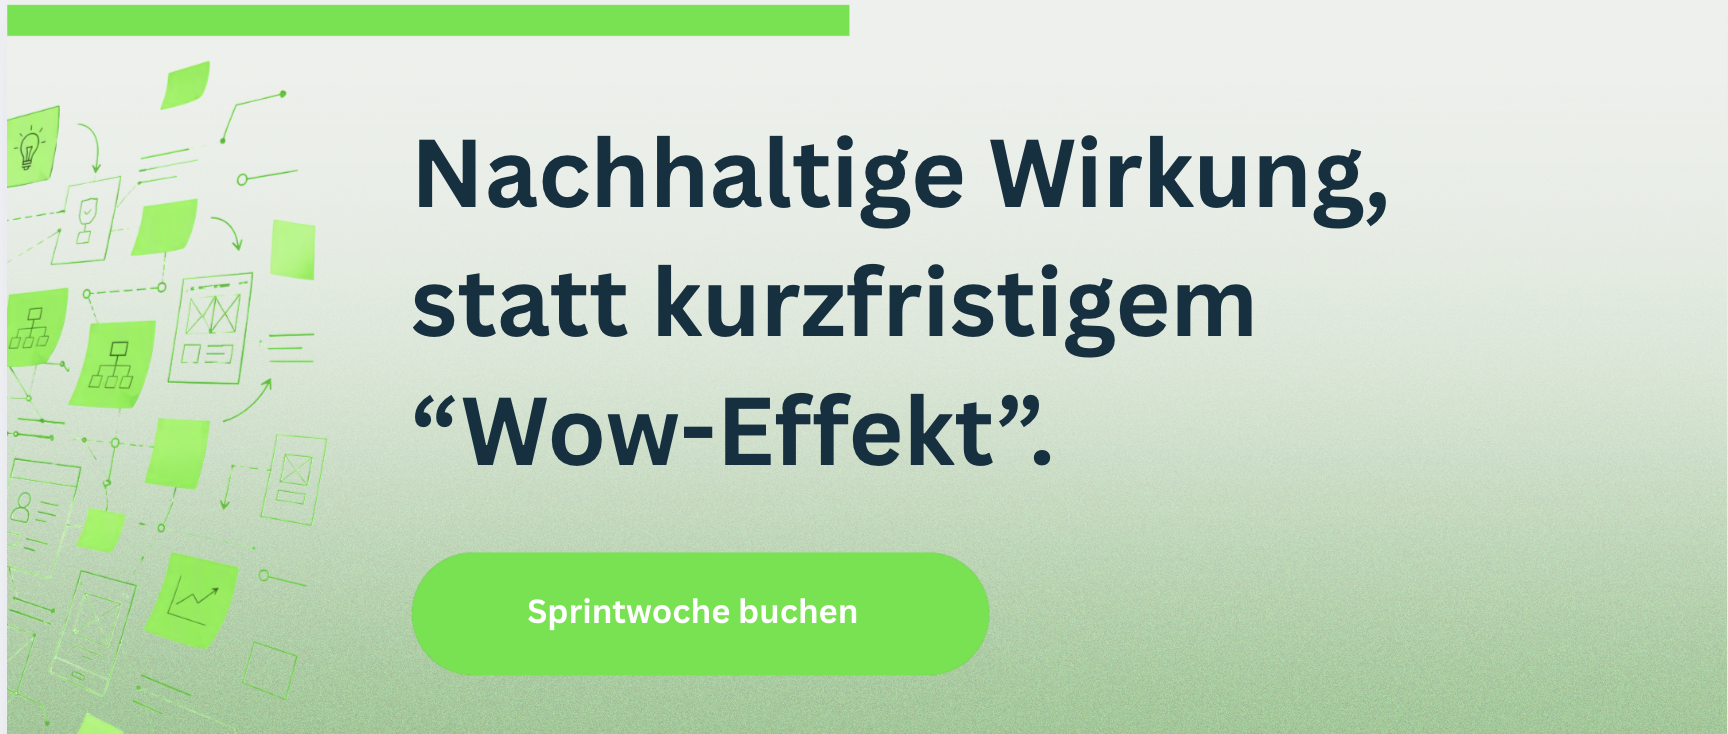
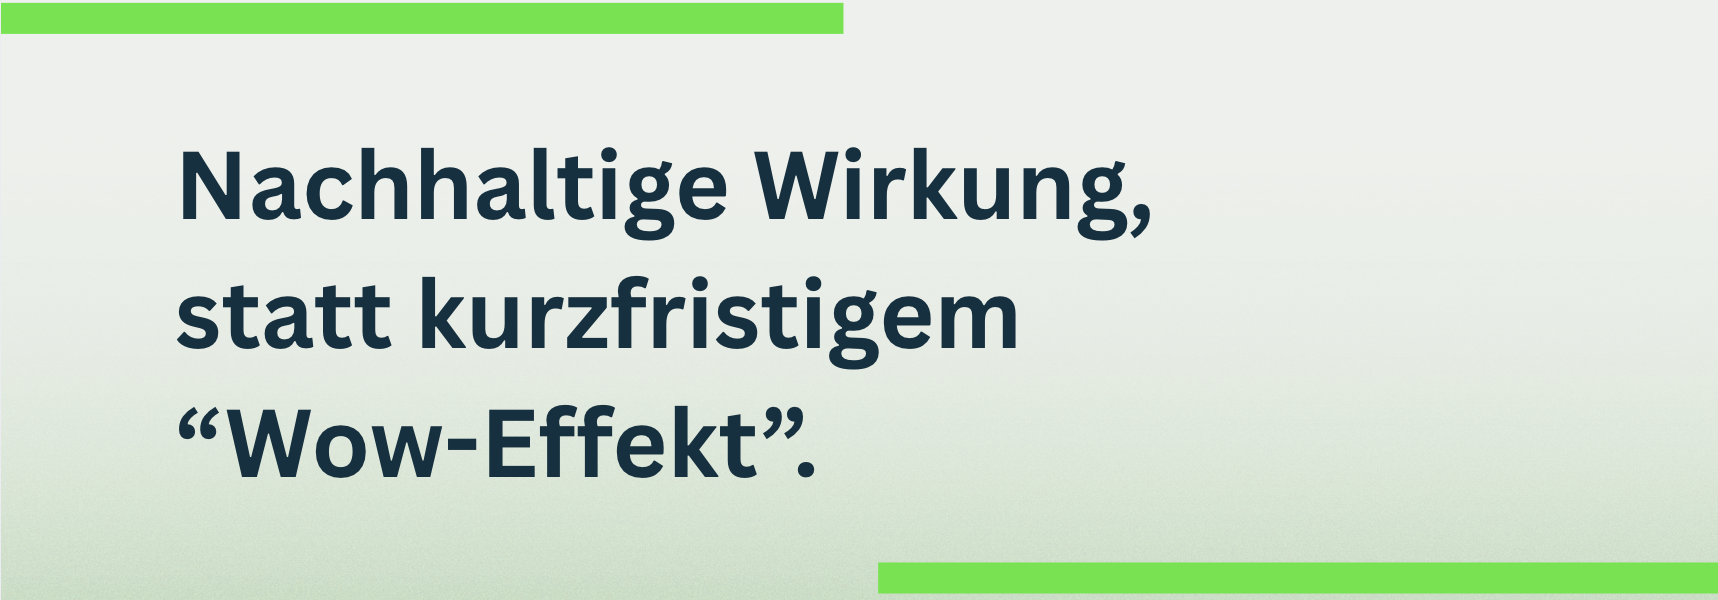
update

diff --git a/index.html b/index.html
@@ -17,9 +17,9 @@
     --lynq-blue-deep: #06202a;
 
     /* Surfaces */
-    --lynq-bg: #f5f7f4;
-    --lynq-surface-1: #edf0ee;
-    --lynq-surface-2: #e6e9e7;
+    --lynq-bg: #ffffff;
+    --lynq-surface-1: #f5f7f4;
+    --lynq-surface-2: #edf0ee;
 
     /* Text */
     --lynq-text-primary: #0c3140;
@@ -595,7 +595,7 @@
     gap: 24px;
   }
   .feature-card {
-    background: #fff;
+    background: var(--lynq-bg);
     border: 1px solid var(--lynq-border);
     border-radius: var(--r-md);
     padding: 32px;
@@ -683,7 +683,7 @@
     gap: 20px;
   }
   .process-card {
-    background: #fff;
+    background: var(--lynq-bg);
     border: 1px solid var(--lynq-border);
     border-radius: var(--r-lg);
     padding: 28px 32px;
@@ -803,7 +803,7 @@
     font-weight: 700;
     letter-spacing: 0.1em;
     text-transform: uppercase;
-    color: var(--lynq-green);
+    color: #2a8c18;
   }
   .step-bar-name {
     font-size: clamp(1rem, 1.5vw, 1.125rem);
@@ -828,7 +828,7 @@
     row-gap: 0;
   }
   .phase-card {
-    background: #fff;
+    background: var(--lynq-bg);
     border: 2px solid var(--lynq-border);
     border-radius: var(--r-lg);
     padding: 32px 28px;
@@ -1156,7 +1156,7 @@
     min-width: 220px;
     height: 96px;
     padding: 0 32px;
-    background: #fff;
+    background: var(--lynq-bg);
     border: 1px solid var(--lynq-border);
     border-radius: var(--r-md);
     color: var(--lynq-blue);
@@ -1387,7 +1387,7 @@
     display: flex;
     gap: 20px;
     padding: 24px 28px;
-    background: #fff;
+    background: var(--lynq-bg);
     border-radius: var(--r-md);
     border: 1px solid var(--lynq-border);
     align-items: flex-start;
@@ -1580,7 +1580,7 @@
   /* ===== TEAM PHOTOS ===== */
   .team-photos-section {
     width: 100%;
-    background: #fff;
+    background: var(--lynq-bg);
     padding: 0 0 40px;
   }
   .team-photos-grid {
@@ -1601,7 +1601,7 @@
   /* ===== TEAM COLLABORATION SECTION ===== */
   .team-collab-section {
     width: 100%;
-    background: #fff;
+    background: var(--lynq-bg);
     padding-bottom: 80px;
     overflow: hidden;
   }